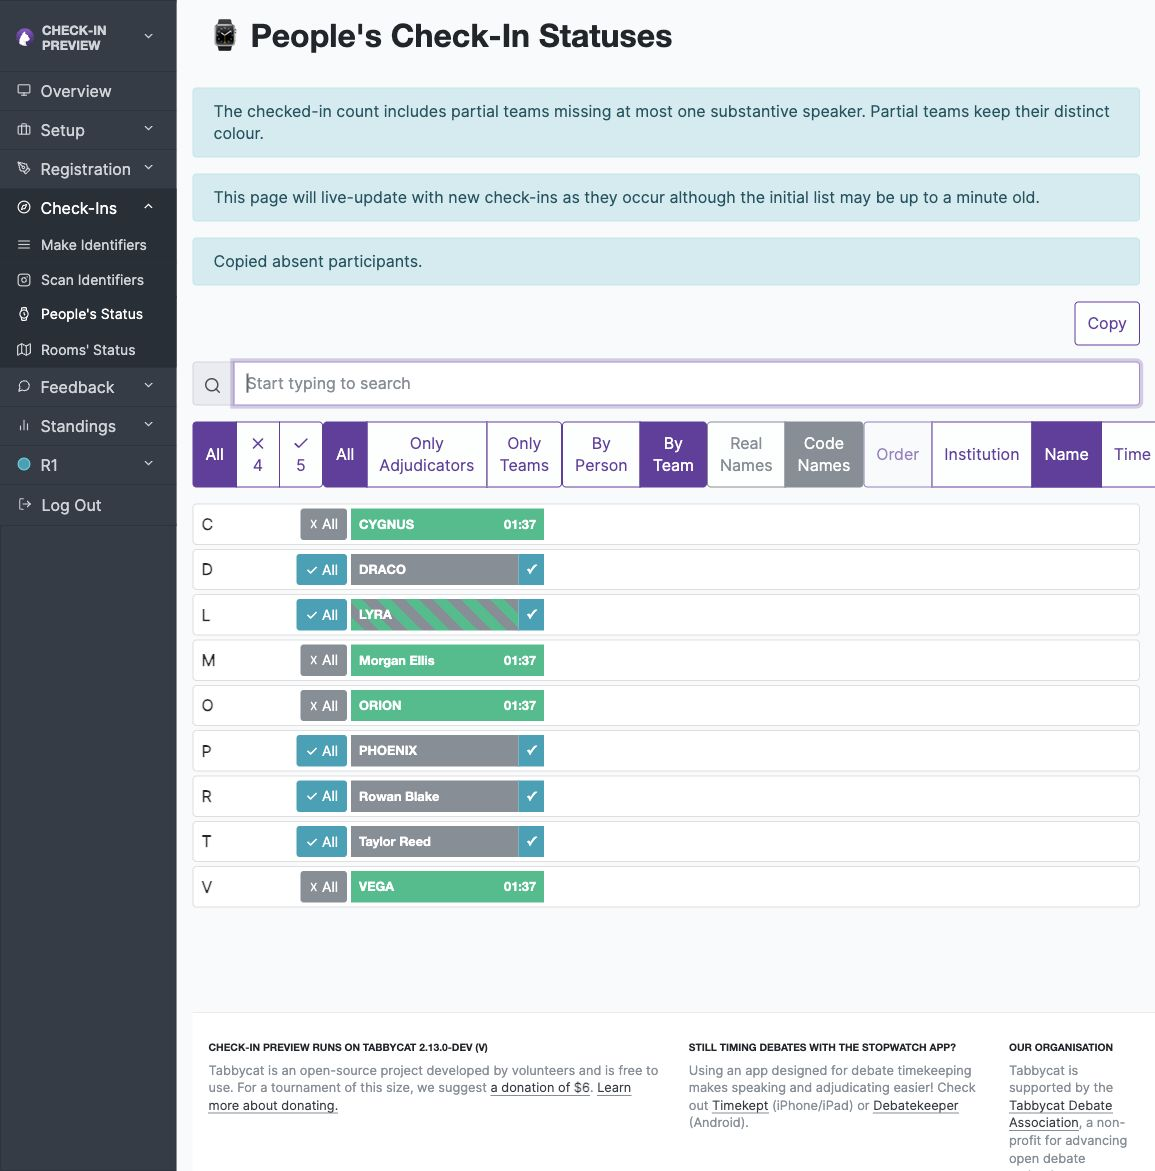
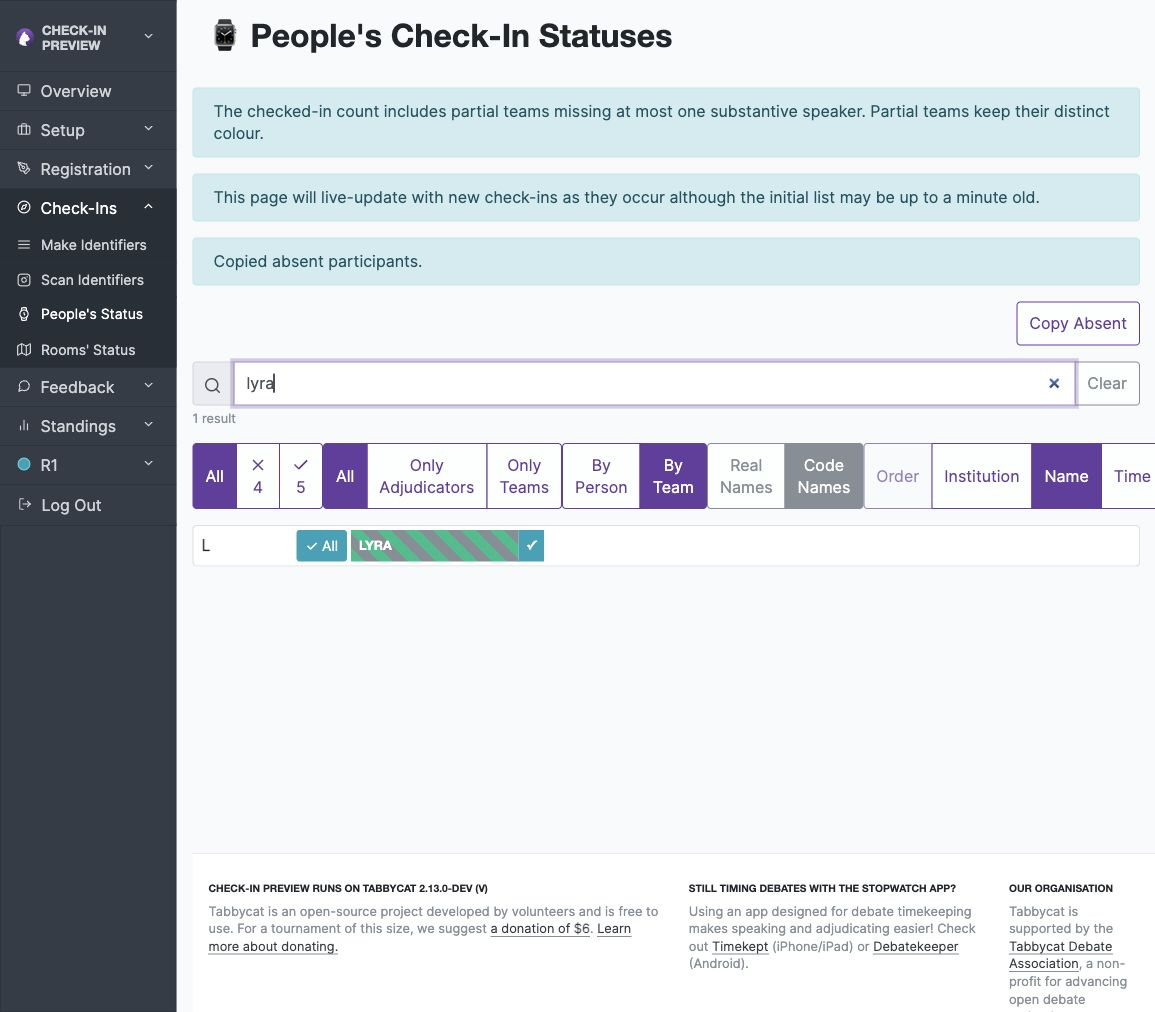
Filter copied absences by search and clarify button label

diff --git a/tabbycat/checkins/templates/CheckInStatusContainer.test.js b/tabbycat/checkins/templates/CheckInStatusContainer.test.js
@@ -125,3 +125,31 @@ test('copy respects code names and hidden adjudicator institutions in either gro
   hidden.setNameDisplay(false)
   assert.equal(hidden.absentParticipantsText.value, 'Adjudicator 2 (Adjudicator)\nSpeaker 1 (Speaker, University A)')
 })
+
+
+test('copy applies search to displayed team or person names and excludes present people', () => {
+  const view = create({
+    speakers: [speaker(1, 'Team A'), speaker(2, 'Team A'), speaker(3, 'Team B')],
+    adjudicators: [person(4, 'Adjudicator')],
+    initialEvents: [event(1)],
+  })
+  view.searchText.value = ' TEAM a '
+  view.setListContext('filterByPresence', 'Present', true)
+  assert.equal(view.absentParticipantsText.value, 'Speaker 2 (Speaker, Team A)')
+  view.setListContext('speakerGroupings', 'Speaker', true)
+  assert.equal(view.absentParticipants.value.length, 0)
+  view.searchText.value = 'speaker'
+  assert.equal(view.absentParticipantsText.value, 'Speaker 2 (Speaker, Team A)\nSpeaker 3 (Speaker, Team B)')
+  view.searchText.value = 'adjudicator'
+  assert.equal(view.absentParticipantsText.value, 'Adjudicator 4 (Adjudicator, UNI)')
+  view.setListContext('filterByType', 'Debaters', true)
+  assert.equal(view.absentParticipants.value.length, 0)
+  view.searchText.value = ''
+  assert.equal(view.absentParticipants.value.length, 2)
+
+  const coded = create({ teamCodes: true, speakers: [speaker(5, 'University A', { team_code_name: 'Orion' })] })
+  coded.searchText.value = 'university'
+  assert.equal(coded.absentParticipants.value.length, 0)
+  coded.searchText.value = 'orion'
+  assert.equal(coded.absentParticipantsText.value, 'Speaker 5 (Speaker, Orion)')
+})

diff --git a/tabbycat/checkins/templates/CheckInStatusContainer.vue b/tabbycat/checkins/templates/CheckInStatusContainer.vue
@@ -313,7 +313,8 @@ const stats = computed(() => {
 
 const absentParticipants = computed(() => {
   if (isForVenues.value) return []
-  const individuals = peopleByType.value.flatMap(entity => entity.type === 'Team' ? entity.speakers : [entity])
+  const matchingEntities = peopleByType.value.filter(entity => normaliseSearch(entity.name).includes(searchQuery.value))
+  const individuals = matchingEntities.flatMap(entity => entity.type === 'Team' ? entity.speakers : [entity])
   return _.sortBy(individuals.filter(person => person.status === false), person => person.name.toLowerCase())
 })
 
@@ -577,10 +578,10 @@ const forAdmin = toRef(props, 'forAdmin')
         type="button"
         class="btn btn-outline-primary"
         :disabled="absentParticipants.length === 0"
-        :title="gettext('Copy absent participants from the selected participant filter')"
+        :title="gettext('Copy absent participants matching the participant filter and search')"
         @click="copyAbsentParticipants"
       >
-        {{ gettext('Copy') }}
+        {{ gettext('Copy Absent') }}
       </button>
     </div>
     <textarea

diff --git a/docs/features/check-ins.rst b/docs/features/check-ins.rst
@@ -54,7 +54,7 @@ On the *People Statuses* section of Check-ins you can view who has or has not be
 
 In *By Team* mode, the checked-in count includes viable partial teams: at least one speaker must be present, and at most one substantive speaker may be missing. Partial teams retain their distinct colour. The *Present* and *Absent* filters use this same rule.
 
-Use *Copy* to copy absent participants as a plain-text list for sharing in group chats. The list follows the selected participant type filter and includes missing speakers from partial teams, regardless of whether you are viewing teams or individual people. Each entry includes the participant's role and team or institution. Team names follow the selected real/code name display. Adjudicator institutions are omitted when code names are displayed or the Show adjudicator institutions setting is disabled. If clipboard access is unavailable, a selectable list is shown instead.
+Use *Copy Absent* to copy absent participants as a plain-text list for sharing in group chats. The list follows the selected participant type filter and search query, while always including only absent participants. In By Team mode, search matches team names and copies their absent speakers, including missing speakers from partial teams. In By Person mode, search matches individual names. Each entry includes the participant's role and team or institution. Team names follow the selected real/code name display. Adjudicator institutions are omitted when code names are displayed or the Show adjudicator institutions setting is disabled. If clipboard access is unavailable, a selectable list is shown instead.
 
 .. image:: images/checkins-copy-preview.jpg
 
